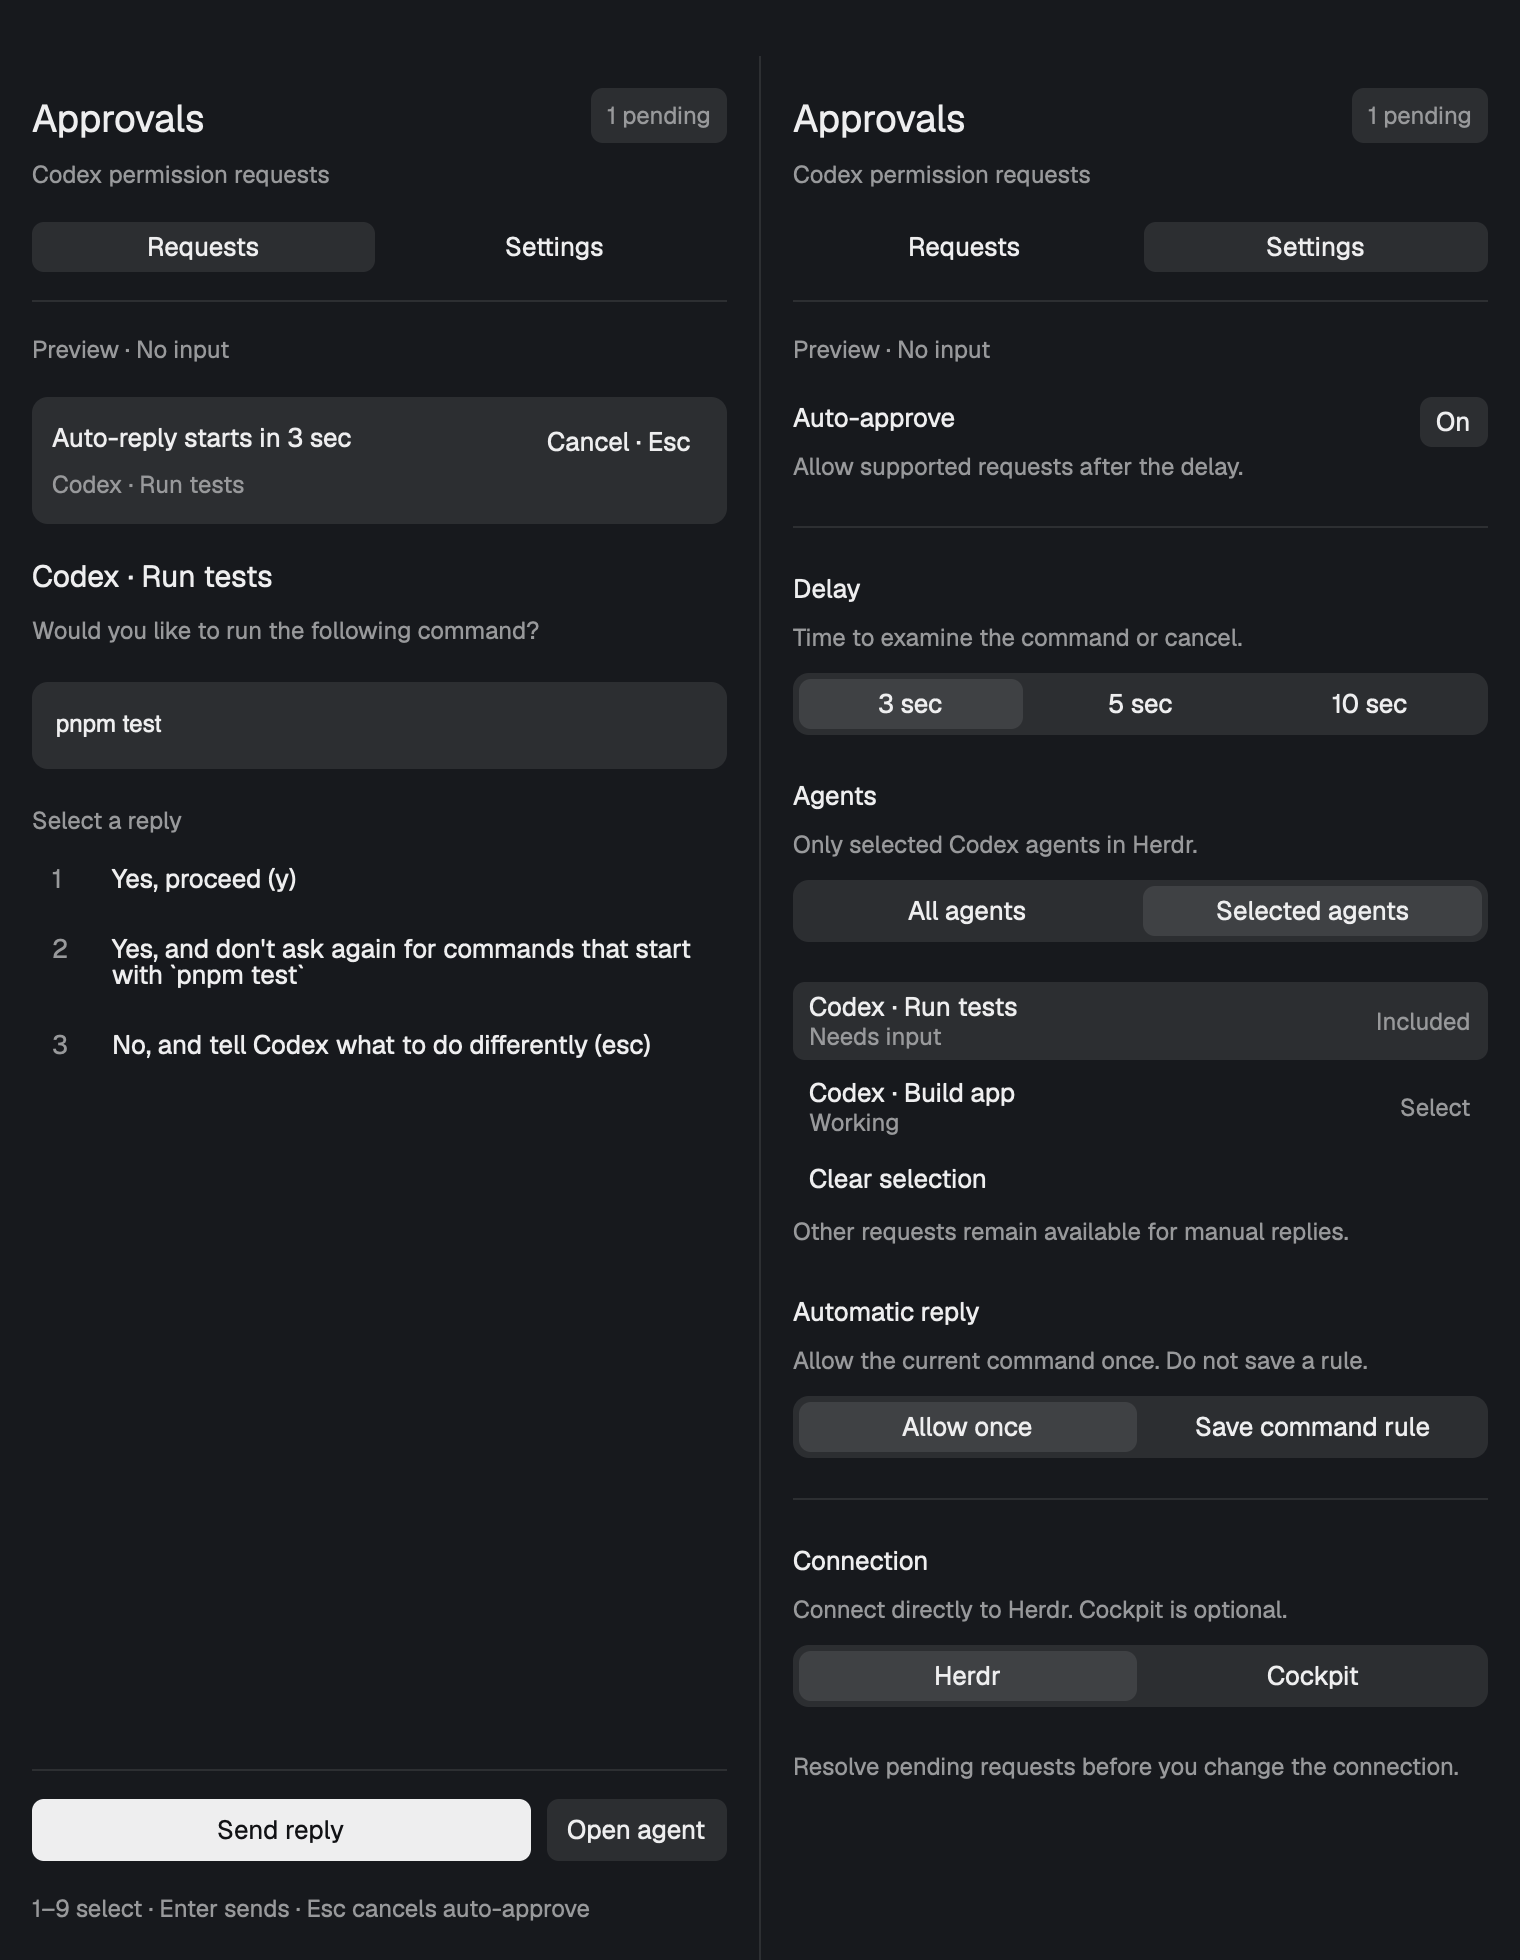
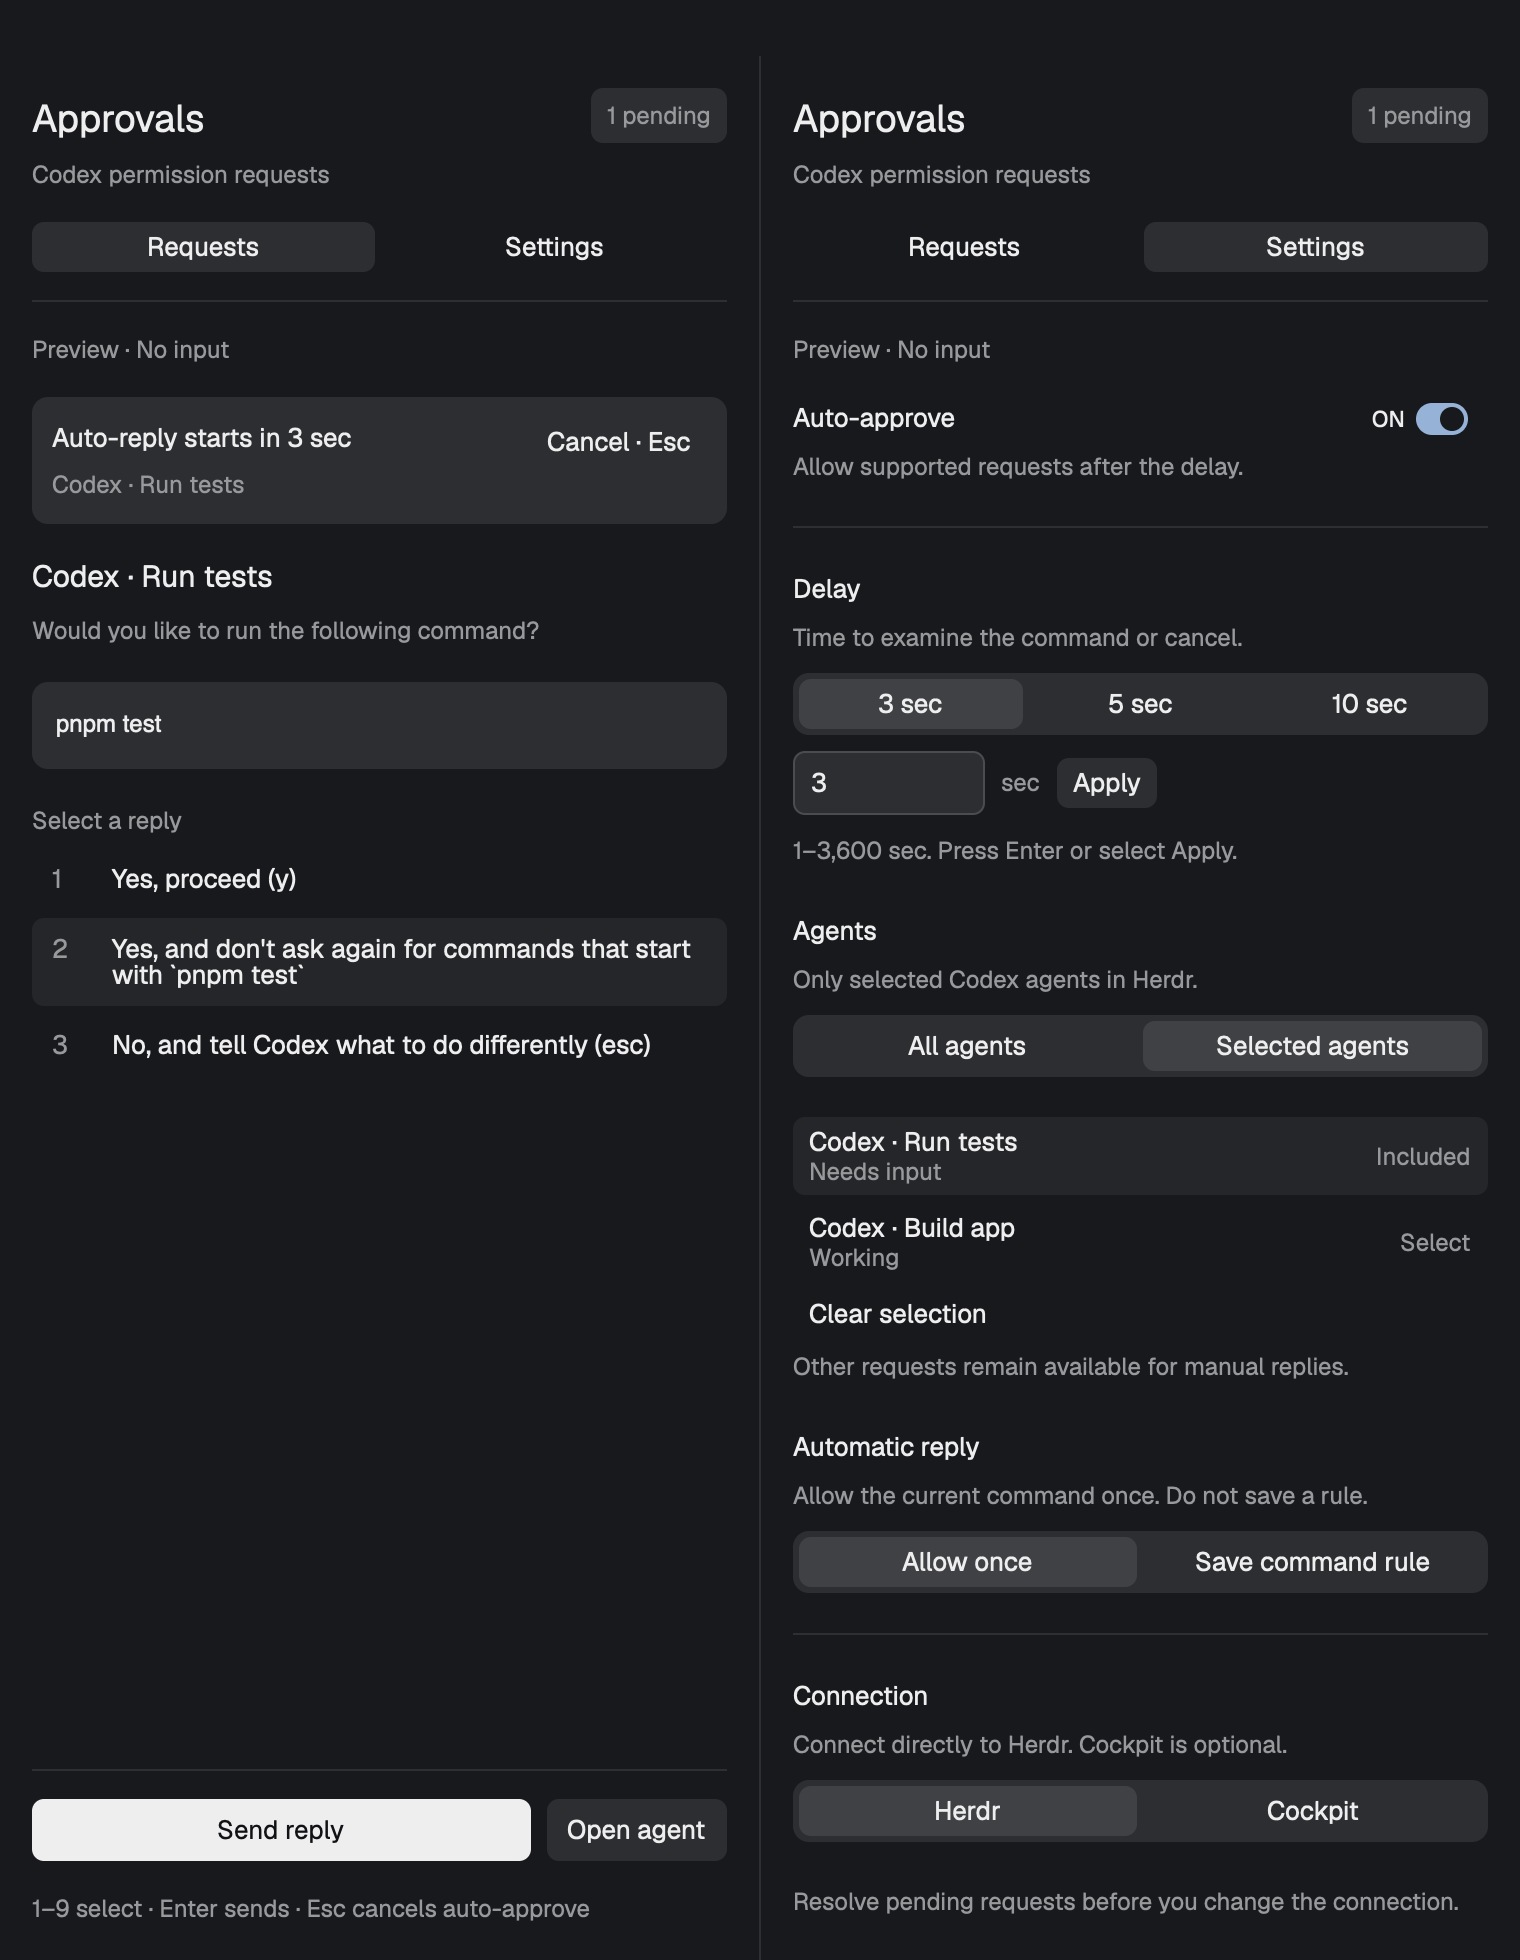
Polish gallery copy and give settings more room

diff --git a/mods/approvals/main.js b/mods/approvals/main.js
@@ -1,6 +1,6 @@
 import { View } from 'gpui-kit';
 import { InputState } from 'gpui-base';
-import { checking, shared, setShared, nextCommand, run, props, agents, openOverlay, closeOverlay } from 'herdr';
+import { checking, shared, setShared, nextCommand, run, props, agents, openOverlay, closeOverlay, settings } from 'herdr';
 import { ApprovalController } from './controller.js';
 import { MemoryJournal, CasJournal } from './state.js';
 import { parseCodex } from './parsers/codex.js';
@@ -106,7 +106,12 @@ export default class Approvals extends View {
     const dialog = newPresentation(this.ownerId, tab === 'settings' ? 'settings' : 'requests');
     this.dialogToken = dialog.token;
     if (this.popupId) closeOverlay(this.popupId);
-    this.popupId = openOverlay({ mod: 'approvals', kind: 'dialog', width: 480, height: 600,
+    const viewport = globalThis.window?.viewport_size?.();
+    const scale = settings().zoom;
+    const zoom = typeof scale === 'number' && Number.isFinite(scale) && scale > 0 ? scale : 1;
+    const fit = (preferred, available) => Number.isFinite(available) && available > 0
+      ? Math.min(preferred, Math.max(1, available / zoom - 32)) : preferred;
+    this.popupId = openOverlay({ mod: 'approvals', kind: 'dialog', width: fit(480, viewport?.width), height: fit(720, viewport?.height),
       props: { presentation: true, ownerId: this.ownerId, dialogToken: dialog.token, tab: dialog.tab } });
   }
   relay(action) {

diff --git a/mods/approvals/ui.js b/mods/approvals/ui.js
@@ -98,7 +98,7 @@ function settings(view) {
     body.child(list);
   }
   body.child(setting('Automatic reply', view.mode === 'remember'
-    ? 'Save a narrow command rule. If none exists, allow once. Ambiguous rules require a manual reply.'
+    ? 'Use an offered command rule. If no supported rule exists, allow once. Multiple rules require a manual reply.'
     : 'Allow the current command once. Do not save a rule.',
   segmented('approvals-mode', [{ value: 'once', label: 'Allow once' }, { value: 'remember', label: 'Save command rule' }],
     view.mode, (value, cx) => view.setMode(value, cx), disabled)));
@@ -168,8 +168,8 @@ function notice(view) {
     dispatching: 'Reply in progress. Cancellation is no longer possible.',
     sending: 'Reply in progress. Cancellation is no longer possible.',
     sent: 'The panel sent your reply.',
-    unknown: 'Delivery is uncertain. The panel will not send this reply again.',
-    cancelled: view.choice !== null ? 'Your selection stopped automatic approval for this request.' : 'Automatic approval stopped for this request.',
+    unknown: 'Delivery is uncertain.',
+    cancelled: 'Automatic approval stopped.',
     changed: 'The request changed. The panel stopped the reply.',
   };
   return texts[controller.status] ? description(texts[controller.status]) : null;

diff --git a/tools/preview.py b/tools/preview.py
@@ -28,14 +28,24 @@ if options.selected:
     mod = scratch/'mods/approvals'
     (mod/'main.js').rename(mod/'view.js')
     (mod/'main.js').write_text("import Base from './view.js';export default class Preview extends Base{init(p,cx){super.init(p,cx);if(this.tab==='settings'){this.scope='selected';this.selectedSessions=['preview'];this.sessionCatalog.push({...this.sessionCatalog[0],sessionKey:'preview-working',address:'fixture-working',title:'Codex · Build app',status:'working'});}}}")
+else:
+    mod = scratch/'mods/approvals-gallery-settings'
+    shutil.copytree(root/'mods/approvals', mod)
+    (mod/'main.js').rename(mod/'view.js')
+    (mod/'mod.json').write_text(json.dumps({'place':'none','title':'Approval settings preview'}))
+    (mod/'main.js').write_text("import Base from './view.js';import {panel} from './ui.js';export default class Preview extends Base{render(cx){return panel({...this,controller:this.controller,presentation:true,compact:false,key:()=>false,dismiss:()=>{}},cx);}}")
 (scratch/'layouts').mkdir()
-(scratch/'layouts/approvals-preview.json').write_text(json.dumps({'id':'root','type':'row','divider':{'width':1,'color':'border'},'children':[{'id':'approval-requests','type':'block','size':{'weight':1},'content':{'mod':'approvals','props':{'preview':True,'tab':'requests'}}},{'id':'approval-settings','type':'block','size':{'weight':1},'content':{'mod':'approvals','props':{'preview':True,'tab':'settings'}}}]}))
+requests = {'id':'approval-requests','type':'block','size':{'weight':1},'content':{'mod':'approvals','props':{'preview':True,'tab':'requests'}}}
+settings = {'id':'approval-settings','type':'block','size':{'weight':1},'content':{'mod':'approvals' if options.selected else 'approvals-gallery-settings','props':{'preview':True,'tab':'settings'}}}
+if not options.selected:
+    requests = {'id':'approval-examples','type':'column','size':{'weight':1},'children':[requests,{'id':'approval-strip','type':'block','size':{'px':40},'content':{'mod':'approvals','props':{'preview':True,'compact':True}}}]}
+(scratch/'layouts/approvals-preview.json').write_text(json.dumps({'id':'root','type':'row','divider':{'width':1,'color':'border'},'children':[requests,settings]}))
 (scratch/'shared.json').write_text(json.dumps({'layout':'approvals-preview','frame.welcomed':'skipped'}))
 (scratch/'settings.json').write_text(json.dumps({'zoom':1.0,'font_size':14,'ui_font_size':13}))
 (scratch/'keys.json').write_text(json.dumps({'global':{}}))
 version = subprocess.run([app,'--version'],capture_output=True,text=True,check=True).stdout.strip().split()[-1]
 (scratch/'update-notes.json').write_text(json.dumps({'last_run':version,'presented':[]}))
-(scratch/'window.json').write_text(json.dumps({'state':'windowed','bounds':[80,80,760,980]}))
+(scratch/'window.json').write_text(json.dumps({'state':'windowed','bounds':[80,80,760,980] if options.selected else [80,80,960,740]}))
 
 def command(args, timeout=10):
     result=subprocess.run([app,*args],env=env,capture_output=True,text=True,timeout=timeout)

diff --git a/README.md b/README.md
@@ -12,7 +12,7 @@ Automatic approval is off by default.
 | Setting | Behavior |
 | --- | --- |
 | Auto-approve | Sends the automatic reply after the delay. |
-| Delay | Use 3, 5, or 10 seconds, or enter a whole number from 1 to 3,600 seconds and select Apply. |
+| Delay | Select 3, 5, or 10 seconds. For a custom delay, enter 1–3,600 whole seconds. Then select Apply. |
 | Agents | Includes all supported local Codex agents, or only selected agents. |
 | Automatic reply | Allows one command, or saves a command rule that Codex offers. |
 | Connection | Uses Herdr directly, or an existing local Cockpit installation. |
@@ -23,16 +23,18 @@ Selection applies to the current terminal process. A new process requires a new 
 See the [agent picker](agents-preview.png).
 
 **Allow once** permits the current command.
-**Save command rule** saves a narrow rule that Codex offers.
-If no rule is present, the mod selects **Allow once**.
-The mod never selects a rule for all commands or a permission bypass.
-Ambiguous rules require a manual reply.
+**Save command rule** selects a command rule that Codex offers.
+If no supported rule exists, automatic approval selects **Allow once**.
+Automatic approval excludes recognized all-command and bypass options.
+In **Save command rule** mode, multiple rule choices require a manual reply.
 
 ## Reply
 
 Select a numbered reply. Then press Enter or select **Send reply**.
 Selection stops automatic approval for that request.
-Esc cancels automatic approval without a rejection. **Open agent** shows the terminal.
+In a popup, Esc closes the window.
+In the full panel, Esc stops all current automatic requests. Cancellation sends no rejection.
+**Open agent** shows the terminal.
 Other mods can open a tab with `approvals.settings` or `approvals.requests`. These commands send no reply.
 
 ## Requirements
@@ -45,6 +47,7 @@ The mod requires these components:
 
 Claude, remote agents, authentication prompts, text questions, and checkbox forms do not accept input through this version.
 Node and Python are development tools. The mod requires neither at runtime.
+Validation used macOS. Linux is not yet validated.
 
 ## Install
 
@@ -71,11 +74,13 @@ For a compact widget, add this block to a personal layout:
 ```
 
 The strip stays 40px high in all states. **Settings** opens a popup.
-Select the request count to read the command and replies. Review pauses automatic approval for that request.
+Select the request count to read the command and replies.
+This action stops automatic approval for that request. Closing details does not restart that request.
 Closing settings preserves the automatic timer.
+Popups open at up to 480×720px. Smaller windows limit their initial size. Long content scrolls inside the popup.
 
 Each agent has its own countdown. Requests found together count down together.
-Replies use one dispatch path when due; they do not each wait another full delay.
+When countdowns end, the mod sends replies one at a time. Each request uses its original deadline.
 Review or cancellation for one request leaves the other countdowns running.
 The global cancel command stops all current automatic requests.
 Changing the delay starts fresh countdowns with the new duration.

diff --git a/RECIPE.md b/RECIPE.md
@@ -4,17 +4,19 @@ A native permission panel for Herdr. Cockpit is optional.
 
 ![Requests and settings](preview.png)
 
-The panel fits in a 360px sidebar and uses the active Herdr theme.
+By default, the mod opens in a 360px right panel. It uses the active Herdr theme.
 **Requests** shows the command, numbered replies, and an automatic approval countdown.
 **Settings** controls automatic approval, delay, agents, the automatic reply, and the connection.
 
-A 40px strip fits above a usage panel. Its height stays fixed.
-Settings and request details open in popups. The strip remains the only input controller.
+You can add a 40px strip through a personal layout. Its height stays fixed.
+Settings and request details open in popups, at up to 480×720px.
+Smaller windows limit the initial popup size. Long content scrolls inside the popup.
 
 ## Reply
 
 Select a reply. Then press Enter.
-Press Esc to cancel automatic approval for the current request.
+In a popup, Esc closes the window.
+In the full panel, Esc stops all current automatic requests.
 Selection stops that request's countdown. Other agents continue counting down.
 Cancellation does not reject the command. The global cancel command stops all current countdowns.
 
@@ -26,9 +28,10 @@ The **All agents** setting includes new local Codex agents in Herdr.
 A selection applies to the current terminal process. A new process requires a new selection.
 
 The mod supports local Codex permission menus in English.
-**Allow once** permits one command. **Save command rule** saves a narrow rule that Codex offers.
-If no rule is present, the mod permits the command once.
-Ambiguous rules require a manual reply.
+**Allow once** permits one command. **Save command rule** selects a command rule that Codex offers.
+If no supported rule exists, automatic approval selects **Allow once**.
+Automatic approval excludes recognized all-command and bypass options.
+In **Save command rule** mode, multiple rule choices require a manual reply.
 
 ## Connection
 
@@ -37,6 +40,16 @@ Both connections share the same input records. The mod does not switch senders a
 
 If Cockpit already approves these agents, disable its automatic sender before you enable this mod.
 The installer preserves that sender and its settings.
+
+## Built from
+
+Native GPUI JavaScript builds the controls.
+`mods/approvals/main.js` owns the controller. `ui.js` builds the strip, panel, and popup.
+The parser reads the supported Codex menu. The providers identify local terminal processes and read each request again before input.
+
+The mod starts `hc` and `/bin/sh`. The optional connection starts the existing local Cockpit executable.
+The core document saves input and cancellation records. These records contain request digests.
+Node and Python support development and installation. The mod requires neither at runtime.
 
 ## Limits
 

diff --git a/docs/gallery-release.md b/docs/gallery-release.md
@@ -1,0 +1,26 @@
+# Gallery release draft
+
+## Repository description
+
+Native Codex permission controls for Herdr, with manual replies, optional automatic approval, and per-agent countdowns.
+
+## Release description
+
+Herdr Approvals adds permission controls for supported local Codex menus in English.
+Automatic approval is off by default. Cockpit is optional.
+
+The mod provides these controls:
+
+- A 360px panel, or a 40px strip in a personal layout
+- Settings and request details in popups
+- A delay from 1 to 3,600 seconds
+- An independent countdown for each agent
+- Connections through Herdr or an existing local Cockpit installation
+
+When countdowns end, the mod sends replies one at a time.
+Selecting the request count in the strip stops automatic approval for that request.
+In a popup, Esc closes the window. The global cancel command stops all current automatic requests.
+
+Validation used macOS, 114 automated tests, ten native UI states, and trials with fictional terminals.
+The fixtures receive replies but execute no real Codex commands.
+Linux and other Codex menu formats remain unvalidated.

diff --git a/CHANGELOG.md b/CHANGELOG.md
@@ -2,6 +2,8 @@
 
 ## Unreleased
 
+- Increase popup height and fit new popups to the available window size.
+- Clarify cancellation, command rules, and the limits of platform validation.
 - Set a custom delay from 1 to 3,600 seconds and count down requests independently.
 - Keep the compact strip at 40px and show settings and request details in popups.
 - Prevent hidden selections from accepting approval commands in settings.
@@ -16,5 +18,5 @@
 
 - Standalone local Codex approval panel with optional Cockpit connection.
 - Manual answers, three-second automatic countdown, cancellation and scope choice.
-- Durable competing-input claims, persistent cancellations and uncertain-delivery fencing.
-- Pure regression tests, side-effect-free native check and isolated core smoke.
+- Saved input records prevent competing replies and stop further mod input after uncertain delivery.
+- Regression tests, native UI checks, and isolated core tests.

diff --git a/docs/design.md b/docs/design.md
@@ -24,7 +24,7 @@ Each request has an independent deadline. Due requests share one serial dispatch
 Cancelling one session invalidates only that session's automatic request.
 Global cancellation and policy changes invalidate all affected deadlines and in-flight validation.
 Delay values use whole seconds from 1 to 3,600. Invalid values do not change saved settings.
-It saves a durable claim before input. The claim uses compare-and-set writes in a core document.
+The controller saves a durable claim before input. The claim uses compare-and-set writes in a core document.
 A cancellation record stops automatic input. An explicit manual reply remains possible before dispatch.
 
 The journal contains at most 512 records.
